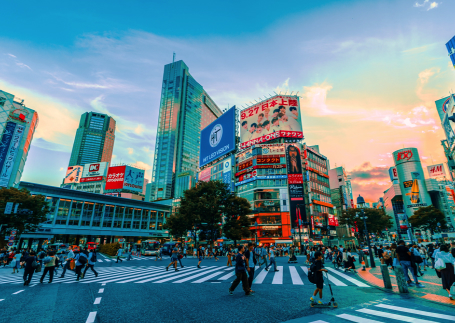
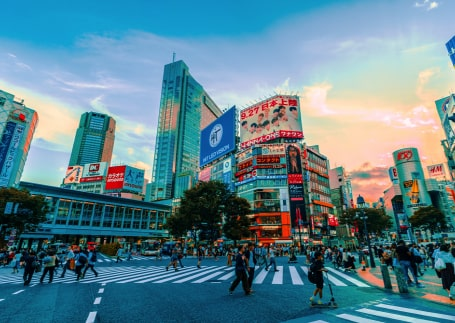
initital commit

diff --git a/style/style.css b/style/style.css
@@ -184,7 +184,7 @@
 
   .intro{
     min-height: 100vh;
-    background: url(../img/intro.jpg) no-repeat center;
+    background: url(../img/intro-min.jpg) no-repeat center;
     background-size: cover;
     padding-top: 263px;
     padding-bottom: 223px;

diff --git a/js/main.js b/js/main.js
@@ -21,4 +21,4 @@
     menuCloseItem.addEventListener('click', () => {
         menu.classList.remove('header__nav_active');
     })
-}())
+}());
